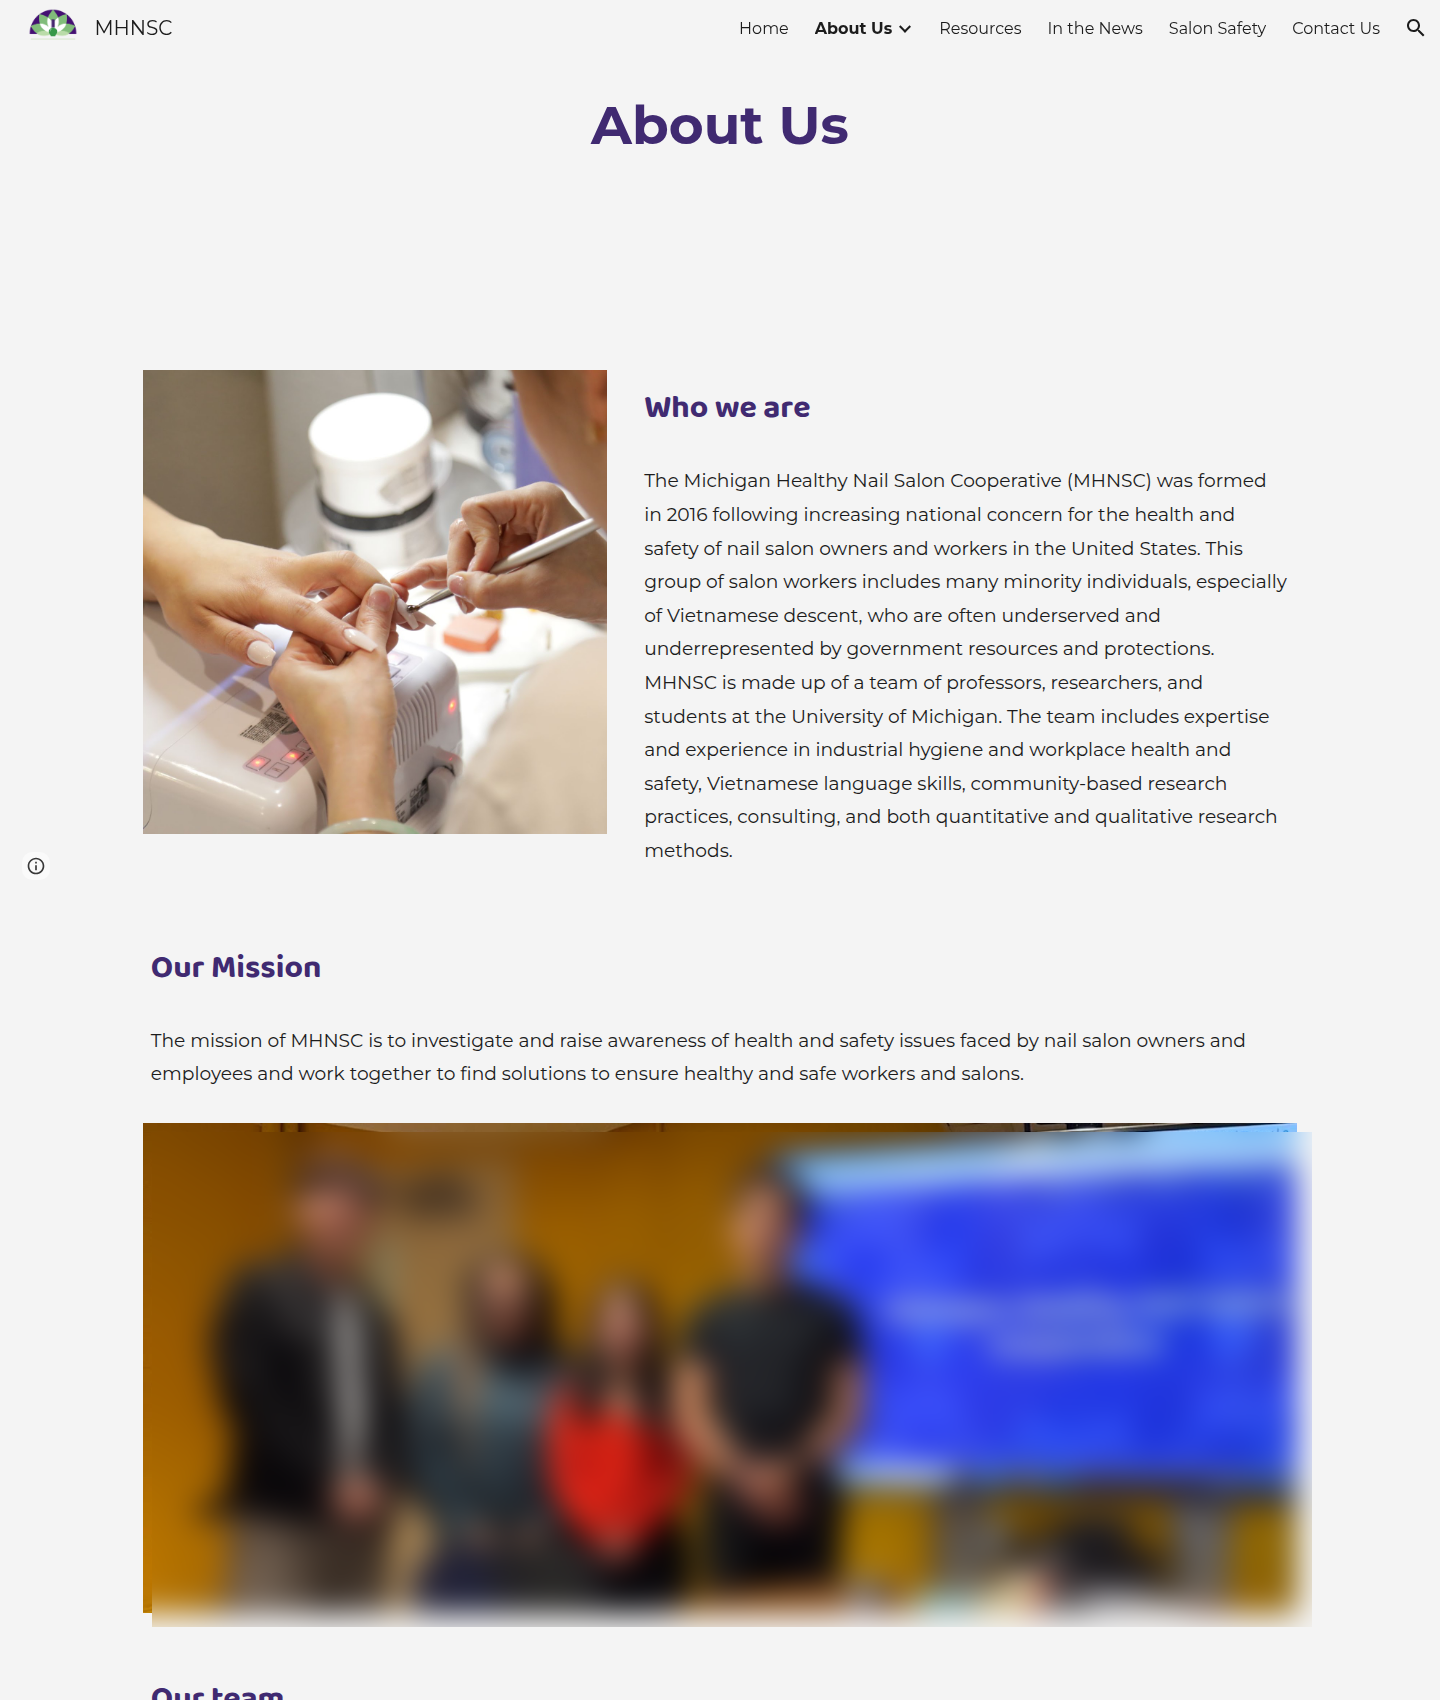
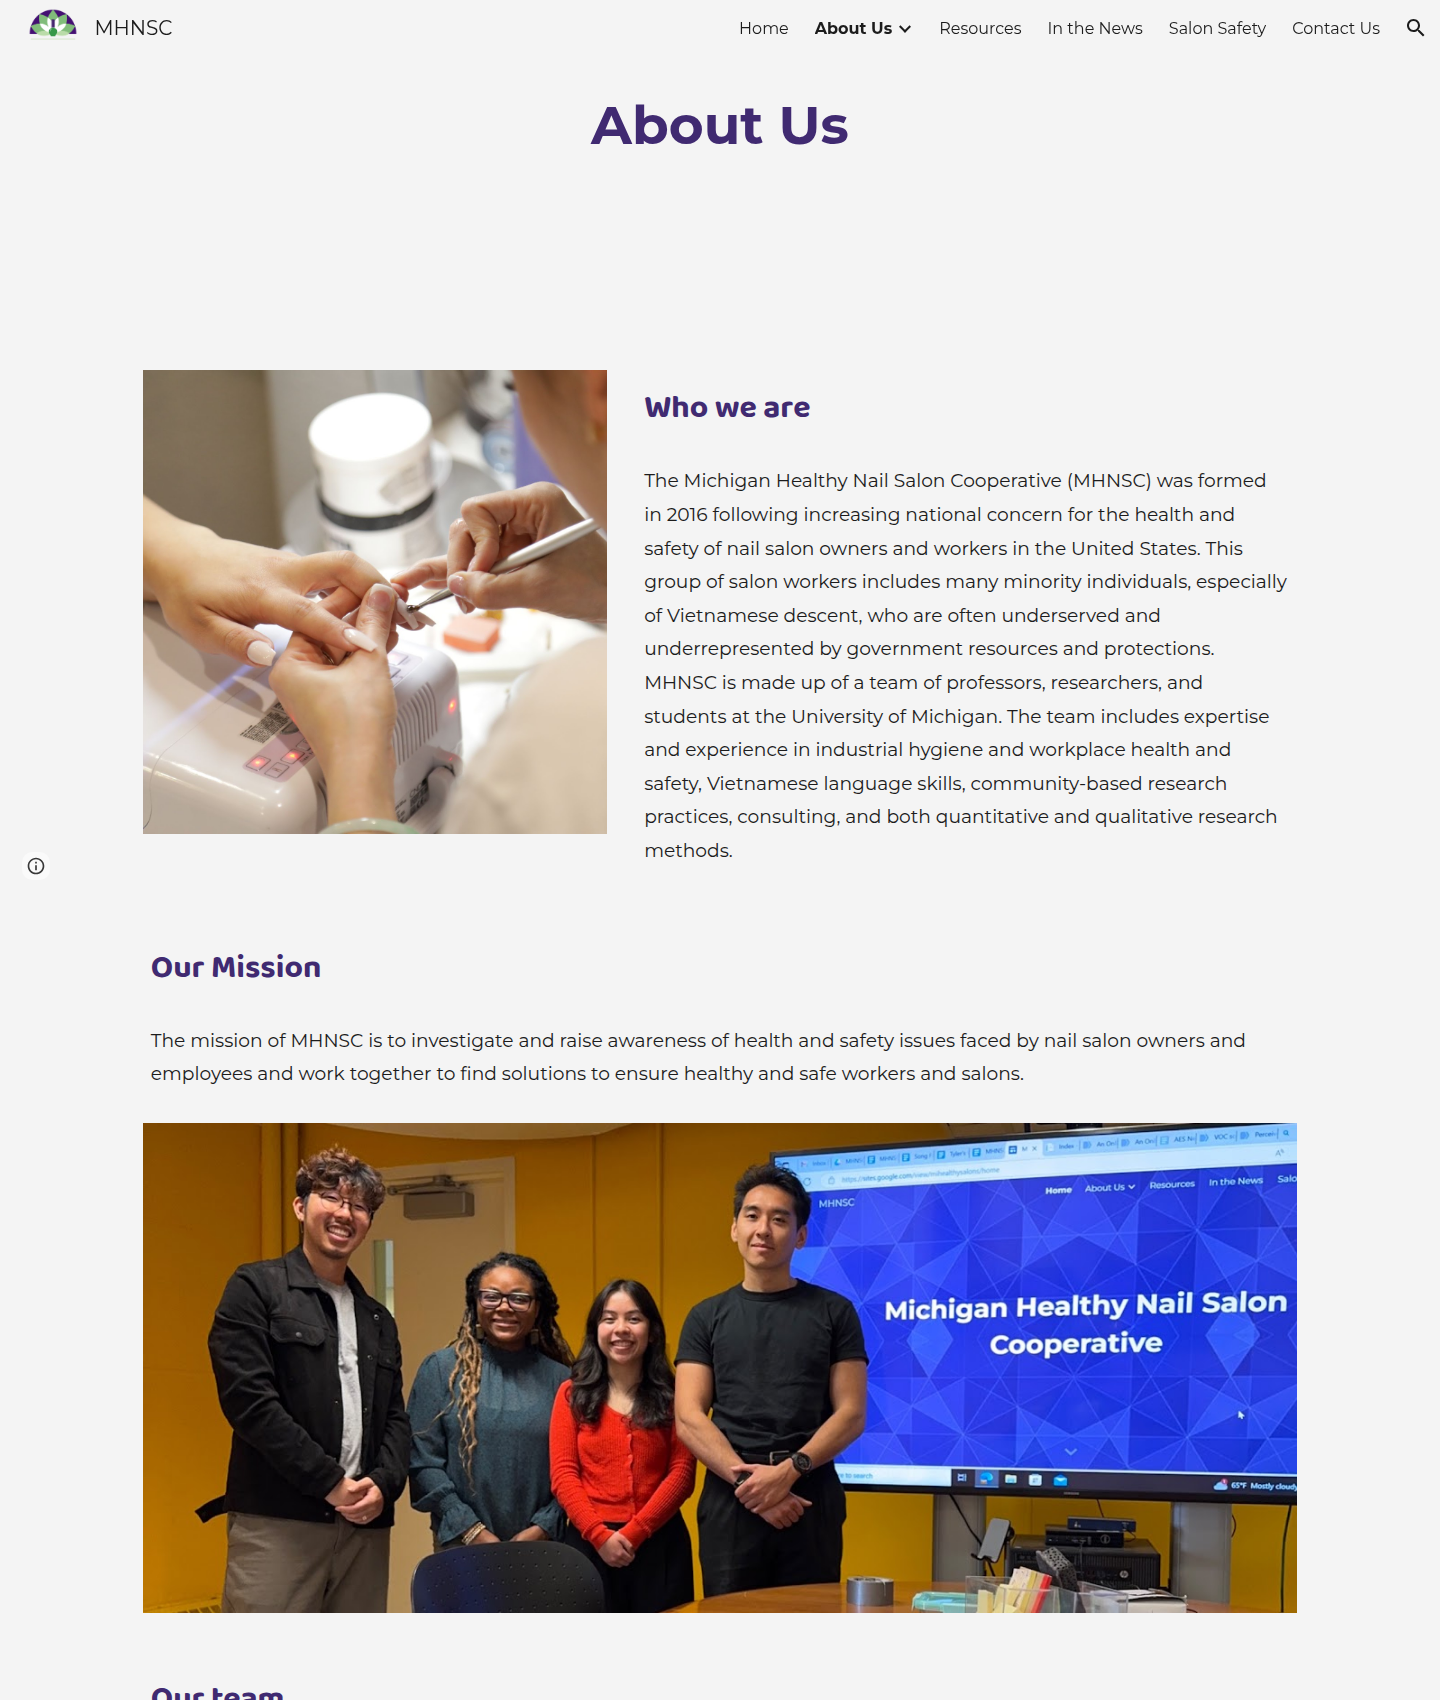
Restore unblurred MHNSC screenshots and drop the blur note
Tanya pointed out the screenshots show a publicly live site, so they can
stay as captured; only the text keeps people anonymous.

Claude-Session: https://claude.ai/code/session_017w7Mvgsxd7BC9xXoSw9Mp9

Changed region(s): [[0.0938, 0.6547, 0.9375, 0.9665]]

diff --git a/CLAUDE.md b/CLAUDE.md
@@ -60,7 +60,8 @@ public/                  # files served as-is (favicon, og image, robots.txt, cu
   MHNSC (2), DPSS Microsite (3), Cardamom (4). "Next project" follows the same order and skips
   coming-soon projects.
 - **Privacy / NDA:** never name real people (clients, teammates, participants) or use their pronouns;
-  say "the client team", "a participant". Blur names, emails and faces of real people in screenshots.
+  say "the client team", "a participant". Screenshots of publicly live sites can stay unblurred
+  (the owner's call).
   MHNSC work is under an NDA: keep the "All rights reserved to MHNSC" callout at the top and the
   rights note at the end of that case study, and never imply the team owns the work.
 - Case-study body order: Problem → My Role → Process → Research Insights → Design Decisions →
